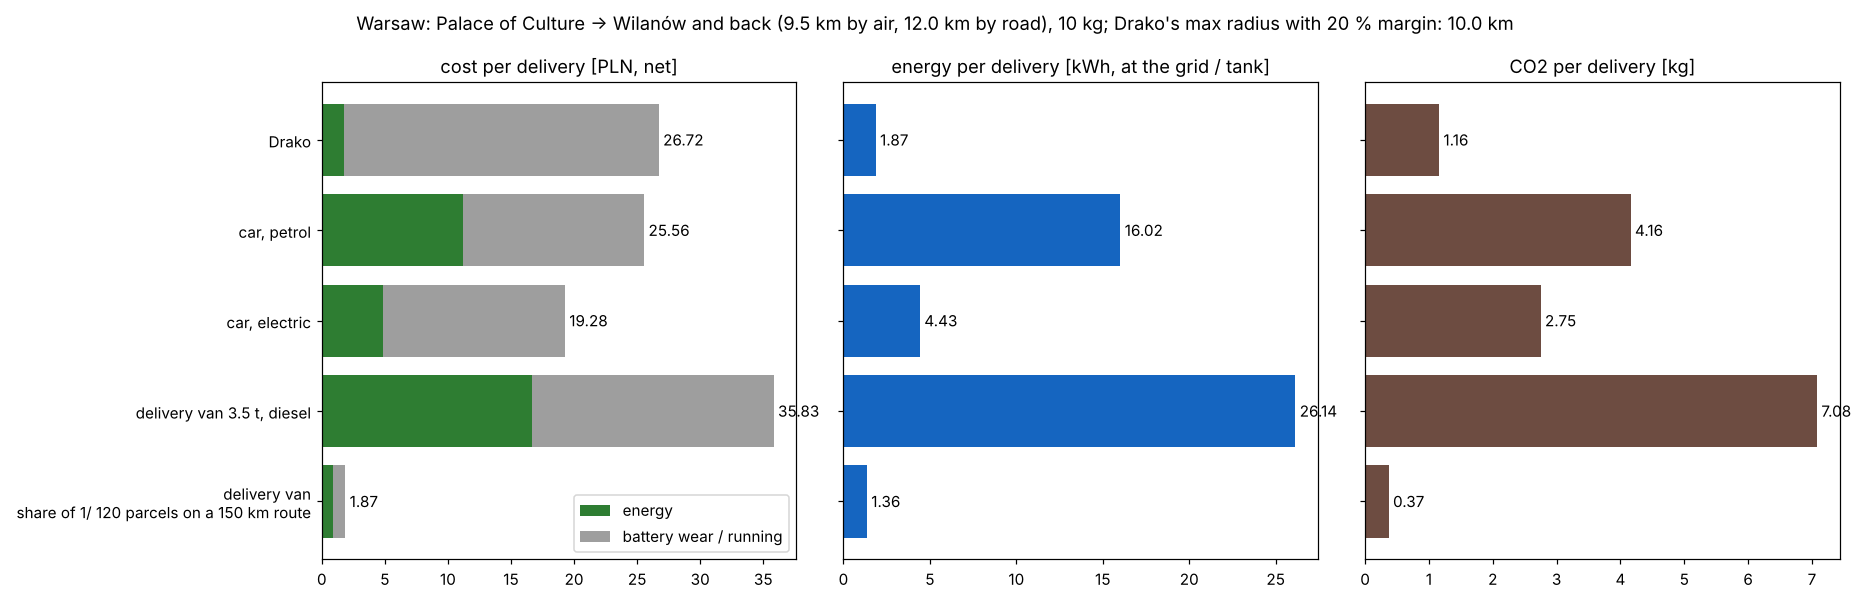
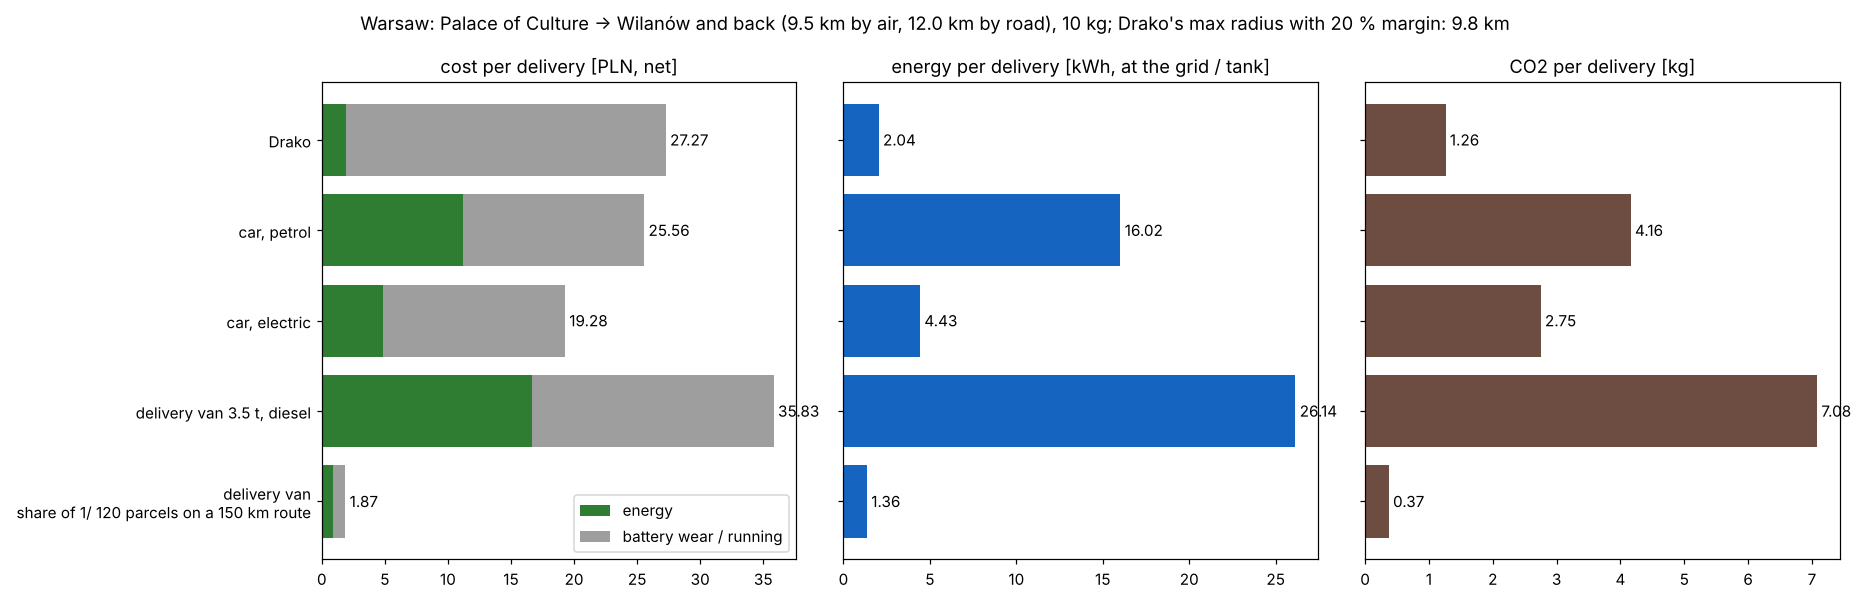
Drako: 120 kV drive from Boreas BEMT of the 30x10 (13.85 kgf), 64 Ah pack; propulsion data in the export; arm mode checked supercritical
Claude-Session: https://claude.ai/code/session_01JpTMNuaL4GVaAwMq9bN2fh

diff --git a/labs/aero/designs/drako_fea.py b/labs/aero/designs/drako_fea.py
@@ -3,7 +3,7 @@
 Cases (``cases``), loads ultimate (x ``ULTIMATE``) on the 15 kg maximum take-off mass:
 
 - **arm_full_thrust**: one arm clamped over its length inside the plate sandwich, the motor mount carrying the motor's
-  full catalogue thrust (13 kgf) up and the motor's reaction torque, less the motor's weight.
+  full catalogue thrust (13.85 kgf) up and the motor's reaction torque, less the motor's weight.
 - **arm_modes**: the same arm with the motor and propeller as a point mass on the mount — read against the rotor's
   1/rev and 2/rev (blade passing) at hover (``rotor_rpm``).
 - **frame_manoeuvre**: plates + six arms, the lower plate's underside held (where battery, cradle and package hang),
@@ -33,7 +33,7 @@ CARBON_TUBE = dict(name="roll-wrapped carbon tube", E=70000.0, nu=0.30, rho=1.55
 CARBON_PLATE = dict(name="carbon plate 0/90", E=50000.0, nu=0.30, rho=1.55e-9, strength=400.0,
                     source="woven 3K carbon sheet class (assumed)")
 MOTOR_MASS = 0.95 + 0.15          # kg: motor + ESC + propeller
-MOTOR_TORQUE = 2.5                # N m at full thrust (30-inch, 13 kgf class; catalogue order of magnitude)
+MOTOR_TORQUE = 2.5                # N m at full thrust (30-inch, 13.85 kgf class; catalogue order of magnitude)
 MARGIN = 3.0                      # mm around region boxes
 
 
@@ -61,7 +61,7 @@ def arm_geometry(p):
     return dict(root=rh, r_in=r_in, length=R - rh, z=p["plate_thickness"] + p["plate_gap"] / 2)
 
 
-def arm_reference(p=None, thrust_kgf=13.0):
+def arm_reference(p=None, thrust_kgf=13.85):
     """Cantilever tube from the plate edge to the motor, ultimate thrust less the motor weight at the tip."""
     p = p or params()
     a = arm_geometry(p)
@@ -73,7 +73,8 @@ def arm_reference(p=None, thrust_kgf=13.0):
     sigma = M * ro / I
     E = CARBON_TUBE["E"]
     k = 3 * E * I / a["length"] ** 3                                 # N/mm
-    m_tip = MOTOR_MASS * 1e-3                                        # t
+    m_arm = math.pi * (ro ** 2 - ri ** 2) * a["length"] * CARBON_TUBE["rho"]
+    m_tip = MOTOR_MASS * 1e-3 + 0.24 * m_arm                         # t: the tube's effective share (Rayleigh)
     f1 = math.sqrt(k / m_tip) / (2 * math.pi)
     return {"length [mm]": a["length"], "tip force, ultimate [N]": F, "root bending stress [MPa]": sigma,
             "torsion shear [MPa]": tau, "von Mises [MPa]": math.sqrt(sigma ** 2 + 3 * tau ** 2),
@@ -82,16 +83,32 @@ def arm_reference(p=None, thrust_kgf=13.0):
             "f1 bending, motor as point mass [Hz]": f1}
 
 
-def rotor_rpm(p=None, ct=0.11):
-    """Hover rpm at the design and maximum mass from T = Ct rho n^2 D^4 (Ct of a 30-inch two-blade prop)."""
+def rotor_rpm(p=None):
+    """Hover rpm and the 1P / 2P (blade passing) frequencies at the empty, design and maximum mass, from the 30x10's
+    Boreas BEMT (``drako_robot.boreas_system``)."""
+    from vegeta.boreas import bemt
+    import drako_robot as dk
     p = p or params()
     s = Drako.sizing(p)
-    D = p["prop_diameter"] * 0.0254
+    prop, airfoil, _, _ = dk.boreas_system(p)
     out = {}
-    for key, m in (("design", s["tow_design_kg"]), ("max", s["mtow_max_kg"])):
-        n = math.sqrt(m * G / 6 / (ct * 1.225 * D ** 4))
+    for key, m in (("empty", s["empty_kg"]), ("design", s["tow_design_kg"]), ("max", s["mtow_max_kg"])):
+        n = bemt.rpm_for_thrust(prop, airfoil, m * G / 6).rpm / 60
         out[key] = {"rpm": 60 * n, "1P [Hz]": n, "2P [Hz]": 2 * n}
     return out
+
+
+def arm_frequency_check(p=None, margin=0.20):
+    """Where the arm's first bending mode sits against the rotor's 1P band (empty to maximum mass) and 2P band. The
+    design is **supercritical**: f1 below the whole 1P band by ``margin``, so the rotor passes the mode only while it
+    spins up, and a softer clamp than the beam's ideal one only lowers f1 further away. (Above the 1P band the gap to
+    the 2P band is 58-62 Hz at 20 % margin: too narrow to hit with a tube and a clamp.)"""
+    f1 = arm_reference(p)["f1 bending, motor as point mass [Hz]"]
+    r = rotor_rpm(p)
+    lo1, hi1 = r["empty"]["1P [Hz]"], r["max"]["1P [Hz]"]
+    lo2 = r["empty"]["2P [Hz]"]
+    return {"f1 [Hz]": f1, "1P band [Hz]": (lo1, hi1), "2P band [Hz]": (lo2, r["max"]["2P [Hz]"]),
+            "below 1P by": 1 - f1 / lo1, "ok": f1 <= (1 - margin) * lo1 or (1 + margin) * hi1 <= f1 <= lo2 / (1 + margin)}
 
 
 # ------------------------------------------------------------------------------------------- the CAD
@@ -132,14 +149,14 @@ def arm_cases(workdir, p=None, *, step=None, element_size=4.0):
                                           a["root"] + MARGIN, ra + MARGIN, a["z"] + ra + MARGIN))
     regions = [clamp, _mount_box(p, 0.0, "mount")]
     mat, mesh = talos_material(CARBON_TUBE), talos.MeshSettings(element_size=element_size, order=2)
-    F = ULTIMATE * (13.0 - MOTOR_MASS) * G
+    F = ULTIMATE * (13.85 - MOTOR_MASS) * G
     # the reaction torque as a couple on the mount face: +-fy over the mount's diameter is not expressible as one
     # Force on one region, so it is carried in the reference (arm_reference) and the case takes the thrust
     static = talos.StructuralModel(step, "mm-N-MPa", mat, regions, [talos.FixedSupport("clamp")],
                                    [talos.Force("mount", fz=F)], mesh, name="arm_full_thrust")
     modes = talos.StructuralModel(step, "mm-N-MPa", mat, regions, [talos.FixedSupport("clamp")], [], mesh,
                                   masses=[talos.PointMass("mount", MOTOR_MASS * 1e-3)], name="arm_modes")
-    return [FEACase("arm_full_thrust", "arm", "13 kgf thrust at the mount, ultimate, arm clamped in the plates", static,
+    return [FEACase("arm_full_thrust", "arm", "13.85 kgf thrust at the mount, ultimate, arm clamped in the plates", static,
                     strength=CARBON_TUBE["strength"]),
             FEACase("arm_modes", "arm", "arm with motor + propeller as a point mass", modes, kind="modes")]
 
@@ -152,7 +169,7 @@ def frame_cases(workdir, p=None, *, step=None, element_size=6.0):
     mat, mesh = talos_material(CARBON_TUBE), talos.MeshSettings(element_size=element_size, order=2)
     mmax = Drako.sizing(p)["mtow_max_kg"]
     t_pull = 2.0 * mmax * G / 6                                       # 2 g pull-up, per motor
-    t_full = 13.0 * G
+    t_full = 13.85 * G
     w_motor = MOTOR_MASS * G
     sup = [talos.FixedSupport("plate_under")]
     man = [talos.Force(f"M{k}", fz=ULTIMATE * (t_pull - 2 * w_motor)) for k in range(6)]   # 2 g on the motor too
@@ -207,7 +224,7 @@ def table(cases_, results, p=None):
     cases the first frequencies and the nearest rotor harmonic at hover."""
     import pandas as pd
     rpm = rotor_rpm(p)
-    harmonics = [rpm[k][h] for k in ("design", "max") for h in ("1P [Hz]", "2P [Hz]")]
+    harmonics = [rpm[k][h] for k in ("empty", "design", "max") for h in ("1P [Hz]", "2P [Hz]")]
     rows = {}
     for c in cases_:
         r = results.get(c.name)
@@ -233,3 +250,4 @@ if __name__ == "__main__":
     for k, v in arm_reference().items():
         print(f"{k:40s} {v:10.2f}")
     print(rotor_rpm())
+    print(arm_frequency_check())

diff --git a/labs/aero/designs/drako.py b/labs/aero/designs/drako.py
@@ -11,7 +11,7 @@ class Drako(Design):
     """Drako: a heavy-lift hexacopter for lifting and transporting packages (10 kg design, 15 kg maximum; tote 600 x 400 x 350 mm).
 
     Six carbon-tube arms (``arm_count`` = 6, flat-six layout: one arm straight forward) bolted between two carbon
-    centre plates; 30-inch propellers on 12S motors at a 1650 mm motor-to-motor diagonal. Under the lower plate hangs a
+    centre plates; 30x10 propellers on 12S 120 kV motors at a 1650 mm motor-to-motor diagonal. Under the lower plate hangs a
     cargo cradle: a rectangular frame with four hook latches, one servo each, that close on a standard tote's lip. The
     package is held between four tall landing legs on two skids, so Drako lands over a package, latches it and takes
     off; at the drop point it lands (or hovers low) and opens the latches. x forward (along arm 0), y left, z up; z = 0
@@ -48,12 +48,12 @@ class Drako(Design):
         Parameter("payload", 10.0, "kg", min=0, description="design payload (25 min point)"),
         Parameter("max_payload", 15.0, "kg", min=0, description="maximum payload"),
         Parameter("battery_cells", 12, "", min=6, description="12S semi-solid Li-ion (44.4 V nominal), hot-swappable 2 x 6S"),
-        Parameter("battery_capacity", 60.0, "Ah", min=1),
+        Parameter("battery_capacity", 64.0, "Ah", min=1),
         Parameter("show_bought", True, "", description="draw motors, propellers, battery and the package"),
     ]
 
     # ---- sizing: plain momentum theory with a figure of merit, round masses from catalogue parts
-    MASSES_KG = {"frame (plates, folding arms, gear, cradle)": 4.0, "6 x motor 12S 100 kV + 80 A FOC ESC": 6 * 0.95,
+    MASSES_KG = {"frame (plates, folding arms, gear, cradle)": 4.0, "6 x motor 12S 120 kV + 80 A FOC ESC": 6 * 0.95,
                  "6 x 30-inch carbon propeller": 6 * 0.15,
                  "FC (triple IMU), dual GNSS, 45 km datalink, camera, wiring": 0.9,
                  "latches (4 servos) and package sensor": 0.6}
@@ -64,10 +64,11 @@ class Drako(Design):
         return p["battery_cells"] * 3.7 * p["battery_capacity"] / 260.0
 
     @classmethod
-    def sizing(cls, p, rho=1.225, figure_of_merit=0.70, max_thrust_per_motor=13.0, reserve=0.15, eta_drive=0.85,
+    def sizing(cls, p, rho=1.225, figure_of_merit=0.666, max_thrust_per_motor=13.85, reserve=0.15, eta_drive=0.85,
                mission_factor=0.70, cda_body=0.25, cda_package=0.15):
         """Take-off mass, hover power, endurance and one-motor-out margin [SI, kg]. ``max_thrust_per_motor`` in kgf is
-        the motor/propeller catalogue figure at full throttle; ``reserve`` the battery fraction left at landing."""
+        the 30x10 at 80 % of 120 kV x 44.4 V (4262 rpm) from Boreas BEMT (``drako_robot.boreas_system``), and
+        ``figure_of_merit`` that BEMT's static figure of merit; ``reserve`` the battery fraction left at landing."""
         g = 9.81
         empty = sum(cls.MASSES_KG.values()) + cls.battery_mass(p)
         mtow = empty + p["payload"]
@@ -175,7 +176,7 @@ class Drako(Design):
         R, z = p["wheelbase"] / 2, self._arm_z(p) + p["arm_diameter"] / 2 + p["mount_thickness"]
         rp = p["prop_diameter"] * 25.4 / 2
         top = 2 * p["plate_thickness"] + p["plate_gap"]
-        out = cq.Workplane("XY").box(300, 160, 110).translate((0, 0, top + 55))          # 12S 60 Ah
+        out = cq.Workplane("XY").box(300, 160, 110).translate((0, 0, top + 55))          # 12S 64 Ah
         for a in self._arm_angles(p):
             cx, cy = R * math.cos(math.radians(a)), R * math.sin(math.radians(a))
             out = out.union(cq.Workplane("XY").center(cx, cy).circle(50).extrude(45).translate((0, 0, z)))

diff --git a/labs/aero/designs/propulsion_parts.py b/labs/aero/designs/propulsion_parts.py
@@ -80,6 +80,46 @@ def drongo(m) -> dict:
     return {"ogma": ogma, "propulsion": blk}
 
 
+def drako(m) -> dict:
+    """Drako's six rotors: the ``ogma.rotors`` record (Gazebo's motor model) and the full ``propulsion`` block — the
+    30x10's BEMT map, the 12S 120 kV motor, the reduced constants at full throttle, checked at hover."""
+    import drako_robot as dk
+    prop, airfoil, motor, battery = dk.boreas_system()
+    ft = dk.full_throttle()
+    pos, spin = dk.rotor_layout()
+    r = prop.diameter / 2
+    kg, w_max = dk.PROP_KG, ft["w_max"]
+    rotors = []
+    for q, s in zip(np.asarray(pos, float), spin):
+        pw, _ = lp.in_machine_frame(m, q, (0.0, 0.0, 1.0))
+        rotors.append({"pos": pw, "spin": int(s), "kg": kg, "inertia": [kg * r * r / 4, kg * r * r / 4, kg * r * r / 2], "radius": r,
+                       "kF": ft["thrust_N"] / w_max ** 2, "kM": ft["kM"], "w_max": w_max,
+                       "tau_up": dk.SPIN_UP_S, "tau_down": 2 * dk.SPIN_UP_S, "T_max": ft["thrust_N"]})
+    ogma = {"rotors": rotors, "source": f"Boreas BEMT of the 30x10 at ω_max = 0.8 × KV × V ({motor.kv_rpm_per_volt:g} KV, "
+                                        f"{battery.cells}S); spin-up assumed"}
+    grid = lp.grid_from_boreas(prop, airfoil, np.linspace(1000.0, 4800.0, 9), [0.0, 4.0, 8.0, 12.0, 16.0, 20.0, 24.0], RHO0)
+    entry = lp.propeller_entry(prop, grid, inertia_kgm2=dk.ROTOR_KG * r * r / 2,
+                               source=f"drako_robot.boreas_system: Boreas BEMT, {airfoil.name} ({airfoil.source}); {prop.notes}")
+    P, _ = lp.max_shaft_power(grid, battery_v=battery.voltage, i_max=motor.max_current_a, voltage_for=motor.voltage_for)
+    mot = lp.motor_entry(motor.name, P, kv=motor.kv_rpm_per_volt, R_ohm=motor.resistance_ohm, I0_A=motor.no_load_current_a,
+                         I_max_A=motor.max_current_a, battery_v=battery.voltage, esc_eff=0.96,
+                         source=f"{motor.source}; power_w: the map's largest shaft power within the pack and the current limit")
+    hover = m.total_mass() * 9.81 / len(rotors)
+    rpm_h = lp.rpm_for_thrust(grid, hover)
+    yr, red = [], {}
+    for k, (q, s) in enumerate(zip(rotors, spin)):
+        name = f"rotor{k}"
+        yr.append(lp.rotor(name, q["pos"], (0.0, 0.0, 1.0), int(s), entry["name"], mot["name"], link=m.roots()[0].name))
+        red[name] = lp.reduced(grid, rpm=ft["rpm"], taken_at=f"full throttle (T_max {ft['thrust_N']:.1f} N at ω_max)",
+                               tau_up=dk.SPIN_UP_S, tau_down=2 * dk.SPIN_UP_S, check=(rpm_h, 0.0), kF=q["kF"], kM=q["kM"])
+    blk = lp.block(yr, [entry], [mot], reduced=red,
+                   battery={"name": battery.name, "cells": battery.cells, "capacity_ah": battery.capacity_ah,
+                            "usable_fraction": battery.usable_fraction, "voltage_v": battery.voltage},
+                   source=f"rotors: drako_robot.rotor_layout; map: drako_robot.boreas_system; residual checked at hover "
+                          f"({hover:.1f} N per rotor, empty)")
+    return {"ogma": ogma, "propulsion": blk}
+
+
 # ------------------------------------------------------------------------------------------------- the fixed wings
 def _single(m, *, name: str, robot, prop, grid: dict, motor: dict, battery_v: float, i_max: float | None, pos_body, downthrust_deg: float,
             tau_up: float | None, source: str, prop_source: str, power_limit: tuple | None = None) -> dict:

diff --git a/labs/aero/designs/drako_robot.py b/labs/aero/designs/drako_robot.py
@@ -47,6 +47,38 @@ def rotor_layout(p: dict | None = None):
            [1 if k % 2 == 0 else -1 for k in range(6)]
 
 
+#: The drive (Boreas objects): the 30x10 two-blade carbon propeller (generic planform), its section, the 12S 120 kV
+#: motor and the 12S 64 Ah pack. Full throttle is 80 % of KV x V (4262 rpm): 13.85 kgf per rotor in the BEMT.
+SPIN_UP_S = 0.12                                                # 30-inch rotor, 0 -> full thrust time constant (assumed)
+PROP_KG, ROTOR_KG = 0.15, 0.25                                  # propeller; propeller + motor bell (spinning)
+
+
+def boreas_system(p: dict | None = None) -> tuple:
+    from vegeta import boreas
+    p = design_params(p)
+    d, pitch = boreas.inches(p["prop_diameter"], 10)
+    prop = boreas.Propeller.from_pitch("30x10 carbon two-blade", d, pitch, blades=2, chord_root_m=0.045, chord_max_m=0.065,
+                                       chord_tip_m=0.025, mass_kg=PROP_KG, rotor_mass_kg=ROTOR_KG,
+                                       notes="generic planform of the 30x10 heavy-lift carbon class; fit to the bought propeller")
+    airfoil = boreas.Airfoil(name="carbon prop section", cl_alpha=2 * math.pi * 0.9, alpha0_deg=-4.0, cl_max=1.3, cd0=0.012, k=0.03,
+                             source="assumed for a moulded carbon blade at Re ~ 4e5")
+    motor = boreas.Motor("12S 120 kV outrunner", kv_rpm_per_volt=120, resistance_ohm=0.045, no_load_current_a=1.6,
+                         max_current_a=80, mass_kg=0.80, source="heavy-lift 12S outrunner class (datasheet-style values, assumed)")
+    battery = boreas.Battery("12S 64 Ah semi-solid", cells=p["battery_cells"], capacity_ah=p["battery_capacity"],
+                             usable_fraction=0.85, mass_kg=Drako.battery_mass(p))
+    return prop, airfoil, motor, battery
+
+
+def full_throttle(p: dict | None = None) -> dict:
+    """The rotor at full throttle from the BEMT: rpm, thrust [N], torque [N m], shaft power [W], kM = Q / T [m]."""
+    from vegeta.boreas import bemt
+    prop, airfoil, motor, battery = boreas_system(p)
+    rpm = 0.8 * motor.kv_rpm_per_volt * battery.voltage
+    r = bemt.solve(prop, airfoil, rpm)
+    return {"rpm": rpm, "thrust_N": r.thrust, "torque_Nm": r.torque, "power_W": r.power, "kM": r.torque / r.thrust,
+            "w_max": rpm * 2 * math.pi / 60, "figure_of_merit": r.figure_of_merit}
+
+
 def latch_servo() -> Servo:
     a = act.get(LATCH_ACTUATOR)
     kp, kd, arm = LATCH_GAINS

diff --git a/labs/aero/tests/test_drako.py b/labs/aero/tests/test_drako.py
@@ -106,3 +106,25 @@ def test_robot_mass_is_the_sizing_and_the_latches_are_joints():
     import mujoco
     mdl = mujoco.MjModel.from_xml_string(xml)
     assert float(mdl.body_mass.sum()) == pytest.approx(drako.Drako.sizing(P)["empty_kg"], rel=1e-3)
+
+
+def test_rotor_full_throttle_is_the_sizing_thrust_and_the_arm_is_supercritical():
+    import drako_robot as dk
+    ft = dk.full_throttle()
+    assert ft["thrust_N"] / 9.81 == pytest.approx(13.85, rel=0.01)
+    assert ft["figure_of_merit"] == pytest.approx(0.666, abs=0.01)
+    assert ft["power_W"] / 0.9 / 44.4 < 80                       # within the ESC's current
+    assert dfea.arm_frequency_check(P)["ok"]
+
+
+def test_export_carries_six_rotors_with_their_motor():
+    pytest.importorskip("mujoco")
+    import sys
+    from pathlib import Path
+    sys.path.insert(0, str(Path(__file__).resolve().parents[3] / "tools"))
+    import export
+    m, _ = export.machine("drako", visual=False)
+    b = m.data["propulsion"]
+    assert len(b["rotors"]) == 6 and list(b["motors"]) == ["12S 120 kV outrunner"]
+    assert sorted(r["spin"] for r in m.data["ogma"]["rotors"]) == [-1, -1, -1, 1, 1, 1]
+    assert all(abs(r["residual"]) < 0.05 for r in b["reduced"].values())

diff --git a/labs/aero/designs/machines.py b/labs/aero/designs/machines.py
@@ -28,4 +28,13 @@ machines.register("quad", "quad_robot:quad", visual="quadcopter_assembly:Quadcop
 machines.register("falco", "falco_robot:falco_robot", parts=pp.falco)
 machines.register("nisus", "nisus_robot:nisus_robot", parts=pp.nisus)
 machines.register("nisus_plus", "nisus_plus_robot:nisus_plus_robot", parts=pp.nisus_plus)
-machines.register("drako", "drako_robot:drako", visual="drako:Drako")
+def _drako_parts(m) -> dict:
+    """Drako's rotors and drive (propulsion_parts.drako), the frame's material and the tags: ``boreas`` on the BEMT map,
+    ``assumed`` on the motor, the battery and the reduced constants (catalogue-class values, drako_robot)."""
+    m.link("drako").data["material"] = "carbon"
+    return {**pp.drako(m), "tags": {"data:propulsion/propellers*": "boreas", "data:propulsion/motors*": "assumed",
+                                    "data:propulsion/battery*": "assumed", "data:ogma*": "assumed",
+                                    "data:propulsion/reduced*": "assumed"}}
+
+
+machines.register("drako", "drako_robot:drako", parts=_drako_parts, visual="drako:Drako")
